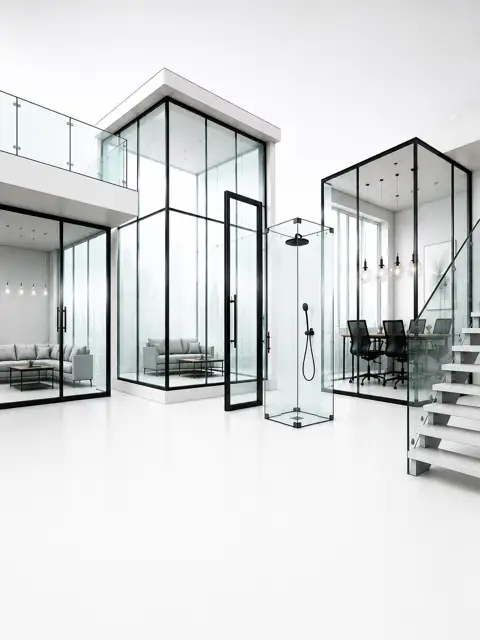
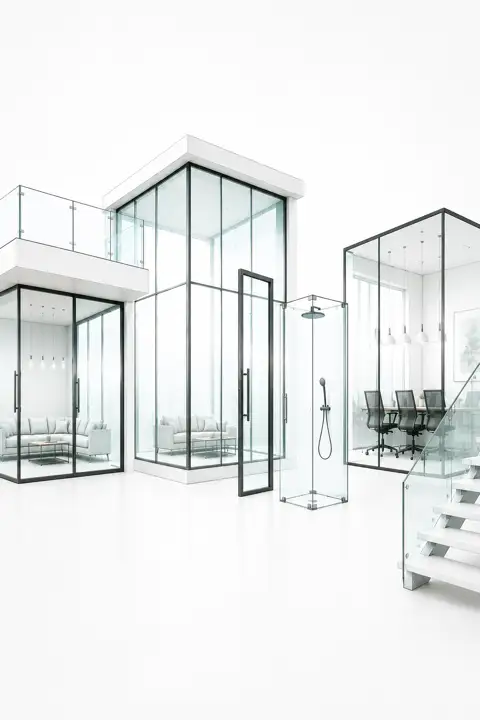
Optimize mobile homepage hero

diff --git a/src/styles/homepage-critical.css b/src/styles/homepage-critical.css
@@ -13,7 +13,7 @@
   --soft:#f7f9f8;
   --radius:22px;
   --container:1280px;
-}*{box-sizing:border-box}html{scroll-behavior:smooth}body{margin:0;background:var(--white);color:var(--text);font-family:Arial,Helvetica,sans-serif;line-height:1.5}img{display:block;max-width:100%}a{text-decoration:none;color:inherit}button,input,textarea{font:inherit}.container{width:min(var(--container),calc(100% - 40px));margin:auto}.skip-link{position:absolute;left:-9999px}.skip-link:focus{left:20px;top:20px;z-index:100;background:#fff;padding:12px}.site-header{position:sticky;top:0;z-index:20;background:rgba(255,255,255,.94);backdrop-filter:blur(14px);border-bottom:1px solid var(--line)}.nav{height:78px;display:flex;align-items:center;justify-content:space-between;gap:28px}.brand-logo img{width:166px;height:auto}.nav__links{display:flex;gap:24px;font-size:13px;font-weight:600}.nav__links a{position:relative;padding:29px 0}.nav__links a:after{content:"";position:absolute;left:0;right:0;bottom:18px;height:2px;background:var(--green);transform:scaleX(0);transition:.2s}.nav__links a:hover:after{transform:scaleX(1)}.nav__actions{display:flex;align-items:center;gap:18px}.button{display:inline-flex;align-items:center;justify-content:center;min-height:50px;padding:0 22px;border-radius:999px;border:1px solid transparent;font-family:Arial,Helvetica,sans-serif;font-size:16px;font-weight:700;line-height:1.3;letter-spacing:normal;transition:.2s}.button:hover{transform:translateY(-2px)}.button--outline{background:#fff;color:var(--text);border-color:var(--line)}.button--white{background:#fff;color:var(--green-dark);border-color:#fff}.eyebrow{margin:0 0 14px;font-size:12px;text-transform:uppercase;letter-spacing:.18em;font-weight:800;color:var(--green)}.eyebrow--light{color:#97d9b4}h1,h2,h3,p{margin-top:0}h1,h2,h3{font-family:Arial,Helvetica,sans-serif}h1{font-size:clamp(3.2rem,6.2vw,6.7rem);line-height:.92;letter-spacing:-.065em;margin-bottom:26px}h2{font-size:clamp(2.3rem,4.5vw,4.7rem);line-height:.98;letter-spacing:-.055em}h3{font-size:1.25rem;line-height:1.2}.hero__actions{display:grid;grid-template-columns:minmax(0,max-content);gap:12px;margin:28px 0}:root{--mint:#93D1BA;--mint-dark:#67B79A;}.site-header{background:#050505;border-bottom-color:#1d1d1d}.brand-logo{width:126px;height:66px;overflow:hidden;display:flex;align-items:center}.brand-logo img{width:118px;height:95px;object-fit:cover;object-position:center}.nav__links a,.nav-icon{color:#fff}.nav__links a:after{background:var(--mint)}.button--mint{background:var(--mint);color:#07120e;border-color:var(--mint)}.button--mint:hover{background:var(--mint-dark);color:#fff}.eyebrow{color:var(--mint-dark)}h1 span{color:var(--mint-dark)}body{background:#202020}.sg-page-shell{width:min(1480px,calc(100% - 24px));margin:14px auto;border-radius:32px;overflow:hidden;background:#fff;box-shadow:0 20px 80px rgba(0,0,0,.28)}.sg-header .container{width:100%;max-width:none;padding:0 48px}.sg-header{position:relative;top:auto;background:#000}.sg-header .nav{height:96px}.sg-header .brand-logo{width:138px;height:82px}.sg-header .brand-logo img{width:138px;height:111px}.sg-header-cta{border-radius:4px}.sg-hero{display:grid;grid-template-columns:1fr 1.02fr;min-height:550px;background:#fff}.sg-hero__copy{padding:72px 58px 56px;display:flex;flex-direction:column;justify-content:center}.sg-hero__copy h1{font-size:clamp(3.5rem,5.5vw,6.4rem);line-height:.95;letter-spacing:-.055em;margin-bottom:30px}.sg-hero__copy h1 span{color:var(--mint-dark)}.sg-hero__copy>p:last-of-type{max-width:520px;font-size:17px;color:#333;line-height:1.55}.sg-hero__image{position:relative;min-height:550px;overflow:hidden}.sg-hero__image img{width:100%;height:100%;object-fit:cover}.sg-glass-line{position:absolute;left:-74px;top:60px;width:190px;height:310px;border:1px solid var(--mint);transform:skewY(-28deg);opacity:.6}.mega-trigger{position:static}.mega-trigger:hover .mega-menu{opacity:1;visibility:visible;pointer-events:auto}.sg-header{
+}*{box-sizing:border-box}html{scroll-behavior:smooth}body{margin:0;background:var(--white);color:var(--text);font-family:Arial,Helvetica,sans-serif;line-height:1.5}img{display:block;max-width:100%}a{text-decoration:none;color:inherit}button,input,textarea{font:inherit}.container{width:min(var(--container),calc(100% - 40px));margin:auto}.skip-link{position:absolute;left:-9999px}.skip-link:focus{left:20px;top:20px;z-index:100;background:#fff;padding:12px}.site-header{position:sticky;top:0;z-index:20;background:rgba(255,255,255,.94);backdrop-filter:blur(14px);border-bottom:1px solid var(--line)}.nav{height:78px;display:flex;align-items:center;justify-content:space-between;gap:28px}.brand-logo img{width:166px;height:auto}.nav__links{display:flex;gap:24px;font-size:13px;font-weight:600}.nav__links a{position:relative;padding:29px 0}.nav__links a:after{content:"";position:absolute;left:0;right:0;bottom:18px;height:2px;background:var(--green);transform:scaleX(0);transition:.2s}.nav__links a:hover:after{transform:scaleX(1)}.nav__actions{display:flex;align-items:center;gap:18px}.button{display:inline-flex;align-items:center;justify-content:center;min-height:50px;padding:0 22px;border-radius:999px;border:1px solid transparent;font-family:Arial,Helvetica,sans-serif;font-size:16px;font-weight:700;line-height:1.3;letter-spacing:normal;transition:.2s}.button:hover{transform:translateY(-2px)}.button--outline{background:#fff;color:var(--text);border-color:var(--line)}.button--white{background:#fff;color:var(--green-dark);border-color:#fff}.eyebrow{margin:0 0 14px;font-size:12px;text-transform:uppercase;letter-spacing:.18em;font-weight:800;color:var(--green)}.eyebrow--light{color:#97d9b4}h1,h2,h3,p{margin-top:0}h1,h2,h3{font-family:Arial,Helvetica,sans-serif}h1{font-size:clamp(3.2rem,6.2vw,6.7rem);line-height:.92;letter-spacing:-.065em;margin-bottom:26px}h2{font-size:clamp(2.3rem,4.5vw,4.7rem);line-height:.98;letter-spacing:-.055em}h3{font-size:1.25rem;line-height:1.2}.hero__actions{display:grid;grid-template-columns:minmax(0,max-content);gap:12px;margin:28px 0}:root{--mint:#93D1BA;--mint-dark:#67B79A;}.site-header{background:#050505;border-bottom-color:#1d1d1d}.brand-logo{width:126px;height:66px;overflow:hidden;display:flex;align-items:center}.brand-logo img{width:118px;height:95px;object-fit:cover;object-position:center}.nav__links a,.nav-icon{color:#fff}.nav__links a:after{background:var(--mint)}.button--mint{background:var(--mint);color:#07120e;border-color:var(--mint)}.button--mint:hover{background:var(--mint-dark);color:#fff}.eyebrow{color:var(--mint-dark)}h1 span{color:var(--mint-dark)}body{background:#202020}.sg-page-shell{width:min(1480px,calc(100% - 24px));margin:14px auto;border-radius:32px;overflow:hidden;background:#fff;box-shadow:0 20px 80px rgba(0,0,0,.28)}.sg-header .container{width:100%;max-width:none;padding:0 48px}.sg-header{position:relative;top:auto;background:#000}.sg-header .nav{height:96px}.sg-header .brand-logo{width:138px;height:82px}.sg-header .brand-logo img{width:138px;height:111px}.sg-header-cta{border-radius:4px}.sg-hero{display:grid;grid-template-columns:1fr 1.02fr;min-height:550px;background:#fff}.sg-hero__copy{padding:72px 58px 56px;display:flex;flex-direction:column;justify-content:center}.sg-hero__copy h1{font-size:clamp(3.5rem,5.5vw,6.4rem);line-height:.95;letter-spacing:-.055em;margin-bottom:30px}.sg-hero__copy h1 span{color:var(--mint-dark)}.sg-hero__lead{max-width:520px;font-size:17px;color:#333;line-height:1.55}.sg-hero__lead--mobile{display:none}.sg-hero__cta-secondary-mobile{display:none}.sg-hero__image{position:relative;min-height:550px;overflow:hidden}.sg-hero__image img{width:100%;height:100%;object-fit:cover}.sg-glass-line{position:absolute;left:-74px;top:60px;width:190px;height:310px;border:1px solid var(--mint);transform:skewY(-28deg);opacity:.6}.mega-trigger{position:static}.mega-trigger:hover .mega-menu{opacity:1;visibility:visible;pointer-events:auto}.sg-header{
   background:#000;
   border-bottom:1px solid #181818;
 }.sg-nav{
@@ -546,7 +546,7 @@ body .sg-page-shell main .project-detail-v2__service-link h2{
     height:18px!important;
   }.sg-header .language-switcher__button{
     min-height:40px!important;
-  }}@media(prefers-reduced-motion:reduce){*{scroll-behavior:auto!important;transition:none!important}}@media(max-width:900px){.sg-page-shell{width:100%;margin:0;border-radius:0}.sg-header .container{padding:0 20px}.sg-hero{grid-template-columns:1fr}.sg-hero__copy{padding:56px 28px}.sg-hero__image{min-height:430px;height:430px}.sg-nav{
+  }}@media(prefers-reduced-motion:reduce){*{scroll-behavior:auto!important;transition:none!important}}@media(max-width:900px){.sg-page-shell{width:100%;margin:0;border-radius:0}.sg-header .container{padding:0 20px}.sg-hero{grid-template-columns:1fr}.sg-hero__copy{padding:56px 28px}.sg-hero__image{min-height:430px;height:430px}.sg-hero__lead--desktop{display:none}.sg-hero__lead--mobile{display:block}.sg-hero__cta-secondary--desktop{display:none}.sg-hero__cta-secondary-mobile{display:grid;padding:0 28px;margin:20px 0 28px}.sg-nav{
     grid-template-columns:150px 1fr auto;
     min-height:88px;
   }.sg-nav-links{display:none}.sg-header-cta{min-height:44px}}@media(max-width:620px){.sg-hero__copy h1{font-size:3.5rem}.contacts-office-actions .button{

diff --git a/src/styles/global.css b/src/styles/global.css
@@ -127,7 +127,9 @@ body{background:#202020}
 .sg-hero__copy{padding:72px 58px 56px;display:flex;flex-direction:column;justify-content:center}
 .sg-hero__copy h1{font-size:clamp(3.5rem,5.5vw,6.4rem);line-height:.95;letter-spacing:-.055em;margin-bottom:30px}
 .sg-hero__copy h1 span{color:var(--mint-dark)}
-.sg-hero__copy>p:last-of-type{max-width:520px;font-size:17px;color:#333;line-height:1.55}
+.sg-hero__lead{max-width:520px;font-size:17px;color:#333;line-height:1.55}
+.sg-hero__lead--mobile{display:none}
+.sg-hero__cta-secondary-mobile{display:none}
 .sg-hero__image{position:relative;min-height:550px;overflow:hidden}
 .sg-hero__image img{width:100%;height:100%;object-fit:cover}
 .sg-glass-line{position:absolute;left:-74px;top:60px;width:190px;height:310px;border:1px solid var(--mint);transform:skewY(-28deg);opacity:.6}
@@ -172,6 +174,10 @@ body{background:#202020}
   .sg-hero{grid-template-columns:1fr}
   .sg-hero__copy{padding:56px 28px}
   .sg-hero__image{min-height:430px;height:430px}
+  .sg-hero__lead--desktop{display:none}
+  .sg-hero__lead--mobile{display:block}
+  .sg-hero__cta-secondary--desktop{display:none}
+  .sg-hero__cta-secondary-mobile{display:grid;padding:0 28px;margin:20px 0 28px}
   .sg-benefits,.sg-final-benefits{grid-template-columns:1fr 1fr;padding:24px}
   .sg-benefits div,.sg-final-benefits div{padding:14px;border-bottom:1px solid var(--line)}
   .sg-categories,.sg-products,.sg-projects{padding-left:24px;padding-right:24px}
